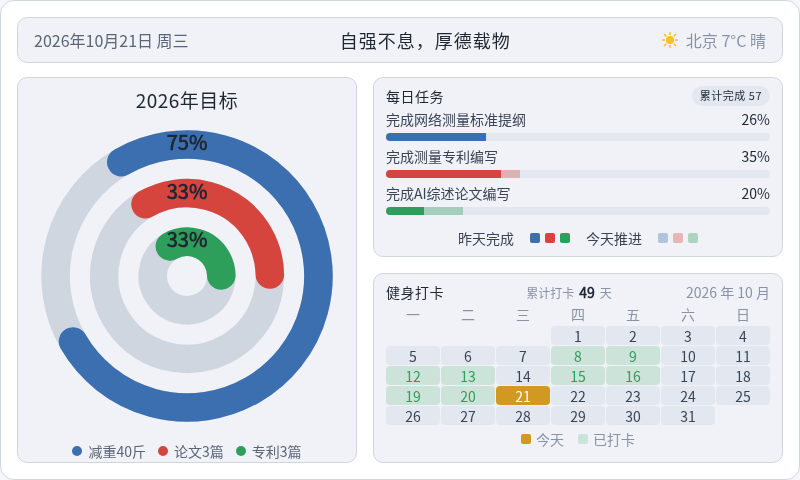
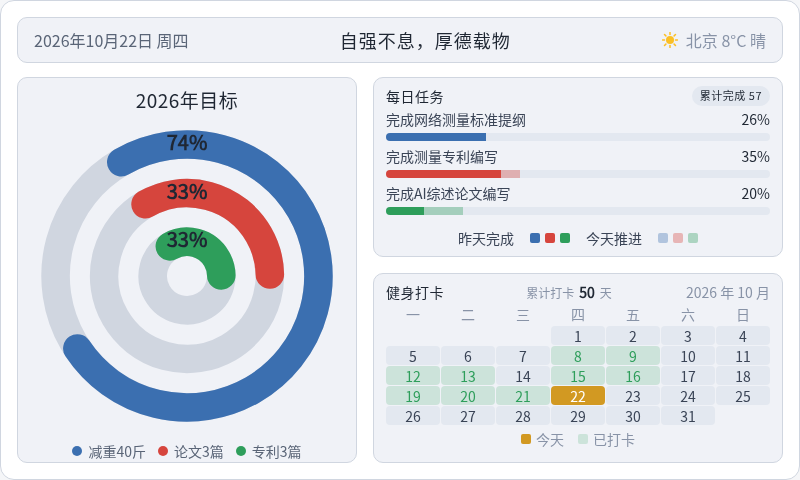
chore: 每日看板刷新 2026-10-22

diff --git a/output/dashboard/dashboard.html b/output/dashboard/dashboard.html
@@ -185,11 +185,11 @@
 <body>
   <div class="dash">
     <div class="topbar">
-      <div class="tb-date" id="tbDate">2026年10月21日 周三</div>
+      <div class="tb-date" id="tbDate">2026年10月22日 周四</div>
       <div class="tb-slogan">自强不息，厚德载物</div>
       <div class="tb-weather">
         <svg width="16" height="16" viewBox="0 0 16 16" aria-hidden="true"><circle cx="8" cy="8" r="4" fill="#fbbf24"/><g stroke="#fbbf24" stroke-width="1.5" stroke-linecap="round"><line x1="8" y1="0.5" x2="8" y2="2.5"/><line x1="8" y1="13.5" x2="8" y2="15.5"/><line x1="0.5" y1="8" x2="2.5" y2="8"/><line x1="13.5" y1="8" x2="15.5" y2="8"/><line x1="2.5" y1="2.5" x2="3.9" y2="3.9"/><line x1="12.1" y1="12.1" x2="13.5" y2="13.5"/><line x1="13.5" y1="2.5" x2="12.1" y2="3.9"/><line x1="3.9" y1="12.1" x2="2.5" y2="13.5"/></g></svg>
-        <span>北京 7°C 晴</span>
+        <span>北京 8°C 晴</span>
       </div>
     </div>
     <div class="content">
@@ -200,9 +200,9 @@
           <svg viewBox="0 0 210 210" width="300" height="300" role="img" aria-label="三环进度仪表盘">
             <title>2026年目标三环进度</title>
             <g transform="rotate(-120 105 105)">
-              <circle cx="105" cy="105" r="92" fill="none" stroke="#d0d6e0" stroke-width="20"/><circle cx="105" cy="105" r="92" fill="none" stroke="#3b6fb0" stroke-width="20" stroke-linecap="round" stroke-dasharray="433.54 578.05"/><circle cx="105" cy="105" r="58" fill="none" stroke="#d0d6e0" stroke-width="20"/><circle cx="105" cy="105" r="58" fill="none" stroke="#d6453d" stroke-width="20" stroke-linecap="round" stroke-dasharray="120.26 364.42"/><circle cx="105" cy="105" r="24" fill="none" stroke="#d0d6e0" stroke-width="20"/><circle cx="105" cy="105" r="24" fill="none" stroke="#2e9e5b" stroke-width="20" stroke-linecap="round" stroke-dasharray="49.76 150.80"/>
+              <circle cx="105" cy="105" r="92" fill="none" stroke="#d0d6e0" stroke-width="20"/><circle cx="105" cy="105" r="92" fill="none" stroke="#3b6fb0" stroke-width="20" stroke-linecap="round" stroke-dasharray="427.76 578.05"/><circle cx="105" cy="105" r="58" fill="none" stroke="#d0d6e0" stroke-width="20"/><circle cx="105" cy="105" r="58" fill="none" stroke="#d6453d" stroke-width="20" stroke-linecap="round" stroke-dasharray="120.26 364.42"/><circle cx="105" cy="105" r="24" fill="none" stroke="#d0d6e0" stroke-width="20"/><circle cx="105" cy="105" r="24" fill="none" stroke="#2e9e5b" stroke-width="20" stroke-linecap="round" stroke-dasharray="49.76 150.80"/>
             </g>
-            <text x="105" y="13" text-anchor="middle" dominant-baseline="middle" fill="#1f2733" font-size="14" font-weight="700">75%</text><text x="105" y="47" text-anchor="middle" dominant-baseline="middle" fill="#1f2733" font-size="14" font-weight="700">33%</text><text x="105" y="81" text-anchor="middle" dominant-baseline="middle" fill="#1f2733" font-size="14" font-weight="700">33%</text>
+            <text x="105" y="13" text-anchor="middle" dominant-baseline="middle" fill="#1f2733" font-size="14" font-weight="700">74%</text><text x="105" y="47" text-anchor="middle" dominant-baseline="middle" fill="#1f2733" font-size="14" font-weight="700">33%</text><text x="105" y="81" text-anchor="middle" dominant-baseline="middle" fill="#1f2733" font-size="14" font-weight="700">33%</text>
           </svg>
         </div>
         <div class="legend"><div class="legend-row"><span class="dot" style="background:#3b6fb0"></span><span class="lg-name">减重40斤</span></div><div class="legend-row"><span class="dot" style="background:#d6453d"></span><span class="lg-name">论文3篇</span></div><div class="legend-row"><span class="dot" style="background:#2e9e5b"></span><span class="lg-name">专利3篇</span></div></div>
@@ -242,13 +242,13 @@
           <span class="panel-title" style="margin:0;color:#1f2733">健身打卡</span>
           <span class="cal-stats">
             <span class="cal-stats-label">累计打卡</span>
-            <span class="cal-stats-num" style="color:#1f2733">49</span>
+            <span class="cal-stats-num" style="color:#1f2733">50</span>
             <span class="cal-stats-label">天</span>
           </span>
           <span class="cal-date">2026 年 10 月</span>
         </div>
         <div class="cal-grid wk"><span>一</span><span>二</span><span>三</span><span>四</span><span>五</span><span>六</span><span>日</span></div>
-        <div class="cal-grid"><span class="cell empty"></span><span class="cell empty"></span><span class="cell empty"></span><span class="cell" style="background:#e3e8f0;color:#3a4456">1</span><span class="cell" style="background:#e3e8f0;color:#3a4456">2</span><span class="cell" style="background:#e3e8f0;color:#3a4456">3</span><span class="cell" style="background:#e3e8f0;color:#3a4456">4</span><span class="cell" style="background:#e3e8f0;color:#3a4456">5</span><span class="cell" style="background:#e3e8f0;color:#3a4456">6</span><span class="cell" style="background:#e3e8f0;color:#3a4456">7</span><span class="cell done" style="background:rgba(46,158,91,0.18);color:#2e9e5b">8</span><span class="cell done" style="background:rgba(46,158,91,0.18);color:#2e9e5b">9</span><span class="cell" style="background:#e3e8f0;color:#3a4456">10</span><span class="cell" style="background:#e3e8f0;color:#3a4456">11</span><span class="cell done" style="background:rgba(46,158,91,0.18);color:#2e9e5b">12</span><span class="cell done" style="background:rgba(46,158,91,0.18);color:#2e9e5b">13</span><span class="cell" style="background:#e3e8f0;color:#3a4456">14</span><span class="cell done" style="background:rgba(46,158,91,0.18);color:#2e9e5b">15</span><span class="cell done" style="background:rgba(46,158,91,0.18);color:#2e9e5b">16</span><span class="cell" style="background:#e3e8f0;color:#3a4456">17</span><span class="cell" style="background:#e3e8f0;color:#3a4456">18</span><span class="cell done" style="background:rgba(46,158,91,0.18);color:#2e9e5b">19</span><span class="cell done" style="background:rgba(46,158,91,0.18);color:#2e9e5b">20</span><span class="cell today" style="background:#d29922;color:#ffffff">21</span><span class="cell" style="background:#e3e8f0;color:#3a4456">22</span><span class="cell" style="background:#e3e8f0;color:#3a4456">23</span><span class="cell" style="background:#e3e8f0;color:#3a4456">24</span><span class="cell" style="background:#e3e8f0;color:#3a4456">25</span><span class="cell" style="background:#e3e8f0;color:#3a4456">26</span><span class="cell" style="background:#e3e8f0;color:#3a4456">27</span><span class="cell" style="background:#e3e8f0;color:#3a4456">28</span><span class="cell" style="background:#e3e8f0;color:#3a4456">29</span><span class="cell" style="background:#e3e8f0;color:#3a4456">30</span><span class="cell" style="background:#e3e8f0;color:#3a4456">31</span></div>
+        <div class="cal-grid"><span class="cell empty"></span><span class="cell empty"></span><span class="cell empty"></span><span class="cell" style="background:#e3e8f0;color:#3a4456">1</span><span class="cell" style="background:#e3e8f0;color:#3a4456">2</span><span class="cell" style="background:#e3e8f0;color:#3a4456">3</span><span class="cell" style="background:#e3e8f0;color:#3a4456">4</span><span class="cell" style="background:#e3e8f0;color:#3a4456">5</span><span class="cell" style="background:#e3e8f0;color:#3a4456">6</span><span class="cell" style="background:#e3e8f0;color:#3a4456">7</span><span class="cell done" style="background:rgba(46,158,91,0.18);color:#2e9e5b">8</span><span class="cell done" style="background:rgba(46,158,91,0.18);color:#2e9e5b">9</span><span class="cell" style="background:#e3e8f0;color:#3a4456">10</span><span class="cell" style="background:#e3e8f0;color:#3a4456">11</span><span class="cell done" style="background:rgba(46,158,91,0.18);color:#2e9e5b">12</span><span class="cell done" style="background:rgba(46,158,91,0.18);color:#2e9e5b">13</span><span class="cell" style="background:#e3e8f0;color:#3a4456">14</span><span class="cell done" style="background:rgba(46,158,91,0.18);color:#2e9e5b">15</span><span class="cell done" style="background:rgba(46,158,91,0.18);color:#2e9e5b">16</span><span class="cell" style="background:#e3e8f0;color:#3a4456">17</span><span class="cell" style="background:#e3e8f0;color:#3a4456">18</span><span class="cell done" style="background:rgba(46,158,91,0.18);color:#2e9e5b">19</span><span class="cell done" style="background:rgba(46,158,91,0.18);color:#2e9e5b">20</span><span class="cell done" style="background:rgba(46,158,91,0.18);color:#2e9e5b">21</span><span class="cell today" style="background:#d29922;color:#ffffff">22</span><span class="cell" style="background:#e3e8f0;color:#3a4456">23</span><span class="cell" style="background:#e3e8f0;color:#3a4456">24</span><span class="cell" style="background:#e3e8f0;color:#3a4456">25</span><span class="cell" style="background:#e3e8f0;color:#3a4456">26</span><span class="cell" style="background:#e3e8f0;color:#3a4456">27</span><span class="cell" style="background:#e3e8f0;color:#3a4456">28</span><span class="cell" style="background:#e3e8f0;color:#3a4456">29</span><span class="cell" style="background:#e3e8f0;color:#3a4456">30</span><span class="cell" style="background:#e3e8f0;color:#3a4456">31</span></div>
         <div class="cal-legend">
           <span style="color:#8893a7"><i class="sw" style="background:#d29922"></i>今天</span>
           <span style="color:#8893a7"><i class="sw" style="background:rgba(46,158,91,0.18)"></i>已打卡</span>
